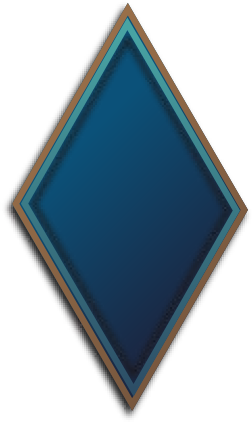
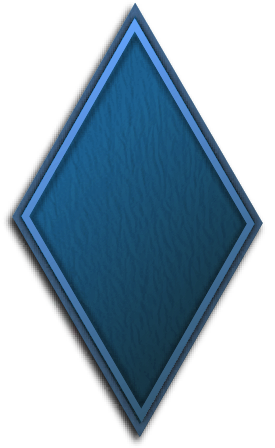
Deleting stuff

Changed region(s): [[0.0278, 0.0, 1.0, 0.9858]]

diff --git a/core/src/main/kotlin/com/drcorchit/cards/Textures.kt b/core/src/main/kotlin/com/drcorchit/cards/Textures.kt
@@ -14,10 +14,9 @@ object Textures {
 
     val white = initTexture("white.png")
 
-    val tray = initTexture("paper8.png")
+    val tray = initTexture("paper.png")
     val star = initTexture("star.png")
     val costBack = initTexture("resources.png")
-    val corners = initTexture("corners.png")
     val border = initTexture("border.png")
     val mana = initTexture("mana.png")
     val brushStroke = initTexture("brush_stroke.png")

diff --git a/core/src/main/kotlin/com/drcorchit/cards/Rarity.kt b/core/src/main/kotlin/com/drcorchit/cards/Rarity.kt
@@ -5,6 +5,6 @@ import com.drcorchit.cards.Textures.asSprite
 enum class Rarity {
     Common, Rare, Legendary;
 
-    val texture = Textures.initTexture("${name.lowercase()}_4.png")
+    val texture = Textures.initTexture("${name.lowercase()}.png")
     val image = texture.asSprite()
 }
